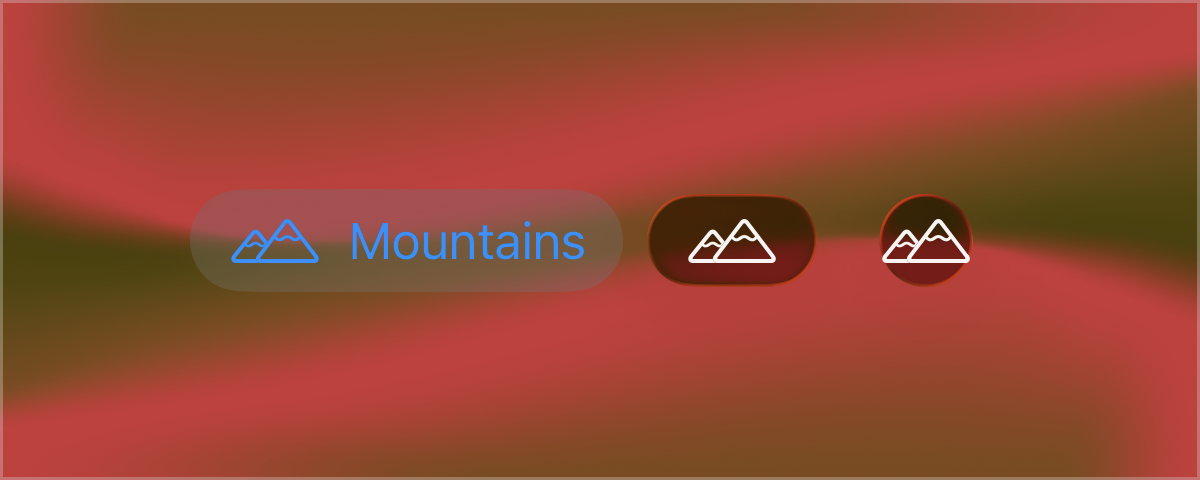
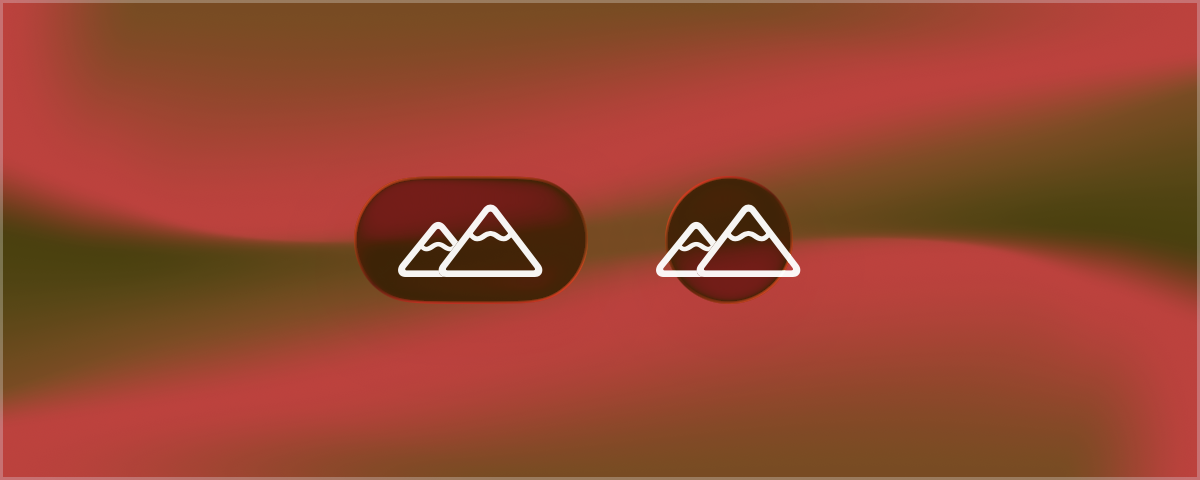
work on existing-modifier images

Changed region(s): [[0.1542, 0.3438, 0.6783, 0.6562], [0.7092, 0.4062, 0.8325, 0.5938]]

diff --git a/illustrations-app/illustrations/IntricaciesOfCircularButtons.swift b/illustrations-app/illustrations/IntricaciesOfCircularButtons.swift
@@ -60,10 +60,6 @@ struct IntricaciesOfCircularButtons {
             DocumentationIllustration(sizing: .regular, background: .fadedMoltenHorizon) {
                 HStack {
                     let mountainsButton = Button("Mountains", systemImage: "mountain.2", action: {})
-
-                    mountainsButton
-                    .buttonStyle(.bordered) // FIXME: Seems like this cannot capture glass controls!
-
                     mountainsButton
                     .labelStyle(.iconOnly)
                     .buttonStyle(.glass)
@@ -73,6 +69,34 @@ struct IntricaciesOfCircularButtons {
                     .buttonBorderShape(.circle)
                     .buttonStyle(.glass)
                 }
+                .font(.title)
+                .padding(.horizontal)
+            }
+        }
+    }
+
+
+    @Test func existingModifiersWithBorders() throws {
+        try storage.renderAndStore("existing-modifiers-with-borders", strategy: .windowHierarchy) {
+            DocumentationIllustration(sizing: .regular, background: .fadedMoltenHorizon) {
+                HStack {
+                    let mountainsButton = Button(action: {}) {
+                        Label { Text("Mountains") }
+                        icon: { Image(systemName: "mountain.2").border(.mint) }
+                    }
+
+                    mountainsButton
+                    .labelStyle(.iconOnly)
+                    .buttonStyle(.glass)
+                    .border(.pink)
+
+                    mountainsButton
+                    .labelStyle(.iconOnly)
+                    .buttonBorderShape(.circle)
+                    .buttonStyle(.glass)
+                    .border(.pink)
+                }
+                .font(.title)
                 .padding(.horizontal)
             }
         }
